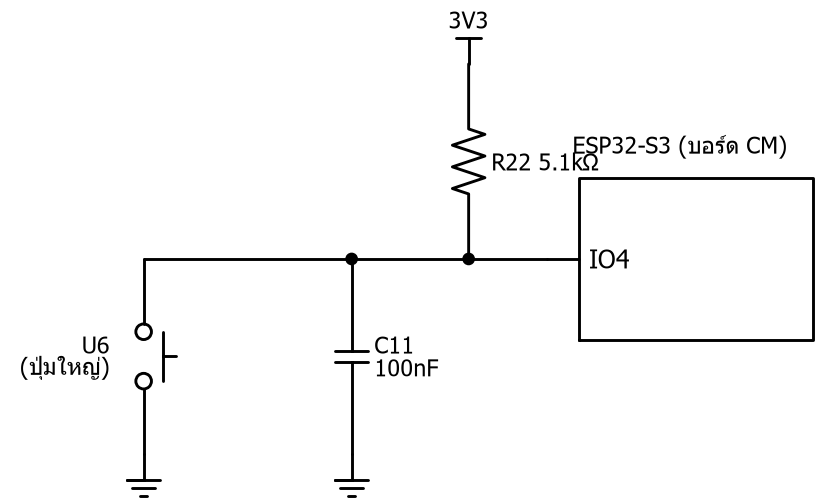
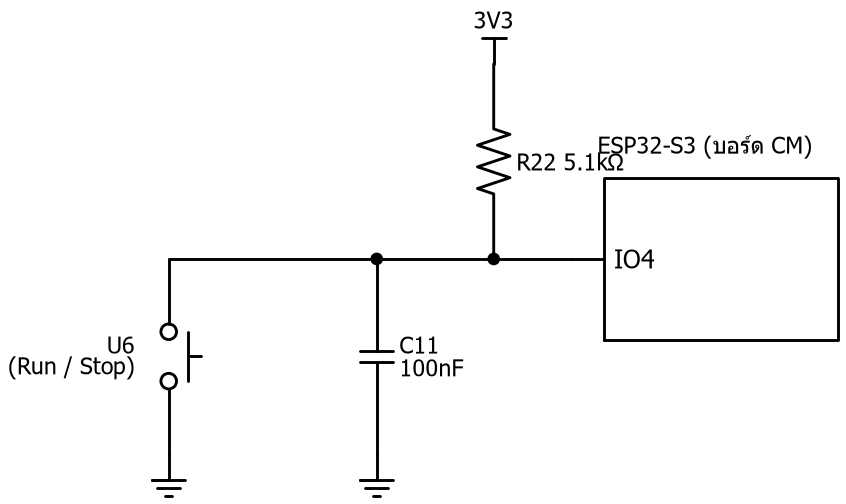
CM sheet: add the board top view; use the silkscreen names (Run / Stop, Boot, SW1, Servos & Relays 1)

Changed region(s): [[0.5481, 0.0, 0.9744, 0.6845], [0.0, 0.506, 0.2436, 1.0], [0.3959, 0.506, 0.5481, 1.0]]

diff --git a/tools/lab1_schematics.py b/tools/lab1_schematics.py
@@ -118,6 +118,6 @@ with schemdraw.Drawing(show=False) as d:   # CM button: R22 5.1k pull-up, C11 10
     d.add(elm.Ground())
     d.pop()
     d.add(elm.Line().left(3.2))
-    d.add(elm.Button().down().label("U6\n(ปุ่มใหญ่)", loc="top", ofst=0.4))
+    d.add(elm.Button().down().label("U6\n(Run / Stop)", loc="top", ofst=0.4))
     d.add(elm.Ground())
     save(d, "lab1-cm-button.png")

diff --git a/1 MCU CM board.md b/1 MCU CM board.md
@@ -19,7 +19,8 @@
 บอร์ด CM ใช้ชิป **ESP32-S3** ซึ่งเป็นคนละรุ่นกับ **ESP32** ในชุด Lab และในโครงงาน Final Project
 จุดประสงค์ของชีทนี้จึงไม่ใช่แค่ทำ Lab ให้ได้ผลเหมือนกัน แต่ให้เห็นว่า **Microcontroller ต่างรุ่นกัน แม้จะชื่อคล้ายกัน ก็มีรายละเอียดที่ต่างกัน** และต้องตรวจสอบทุกครั้งที่เปลี่ยนชิปหรือเปลี่ยนบอร์ด
 
-<!-- ภาพบอร์ด CM: รอภาพถ่ายจากผู้สอน ระบุตำแหน่ง LED2 (แดง), ปุ่มใหญ่ U6, ปุ่ม BOOT U4, สวิตช์ Power SW1 และช่อง USB-C -->
+![บอร์ด GoGo Command Module ด้านบน](images/lab1-cm-topview.png)
+*ตำแหน่งที่ใช้ในชีทนี้: LED2 สีแดง (มุมขวาล่าง) ต่อกับ IO6 · ปุ่ม Run / Stop (ปุ่มใหญ่กลางบอร์ด, U6) ต่อกับ IO4 · ปุ่ม Boot (U4) ข้างช่อง USB-C · สวิตช์ On / Off (SW1) · ช่อง Servos & Relays หมายเลข 1 ต่อกับ IO15*
 
 ## บอร์ด CM ต่างจาก ESP32 ในชุด Lab อย่างไร
 
@@ -41,8 +42,8 @@
 
 | | Wokwi | Breadboard (ESP32) | บอร์ด CM (ESP32-S3) |
 |---|---|---|---|
-| LED | GPIO23 | GPIO23 | **IO6** — LED2 สีแดง ต่อผ่าน R23 1kΩ บนบอร์ด |
-| ปุ่มกด | GPIO4 | GPIO4 | IO4 — ปุ่มใหญ่ U6 บนบอร์ด |
+| LED | GPIO23 | GPIO23 | **IO6** — LED2 สีแดง (มุมขวาล่าง) ต่อผ่าน R23 1kΩ บนบอร์ด |
+| ปุ่มกด | GPIO4 | GPIO4 | IO4 — ปุ่ม Run / Stop (U6) บนบอร์ด |
 | ตัวต้านทาน Pull-up | ต่อเอง (หรือใช้ Internal Pull-up) | ต่อเอง 10kΩ | R22 5.1kΩ บนบอร์ด |
 | วงจร Debounce | จำลองด้วยตัวเลือก Bounce ของปุ่ม | ต่อเองใน LAB 1.3.3 (33kΩ + 100nF) | C11 100nF บนบอร์ด |
 
@@ -57,7 +58,7 @@
 
 ## การเตรียมบอร์ด CM
 
-1. ต่อสาย USB-C จากคอมพิวเตอร์เข้ากับบอร์ด CM แล้วเปิดสวิตช์ Power บนบอร์ด
+1. ต่อสาย USB-C จากคอมพิวเตอร์เข้ากับบอร์ด CM แล้วเลื่อนสวิตช์ SW1 ไปที่ On
 2. เปิด Arduino IDE (ติดตั้งส่วนขยาย ESP32 ตาม[คู่มือการเตรียมอุปกรณ์และโปรแกรม](1%20MCU%20Setup.md) — **ไม่ต้องติดตั้ง Driver CP210x** สำหรับบอร์ดนี้)
 3. ตั้งค่าที่เมนู Tools:
    - Board: **ESP32S3 Dev Module**
@@ -66,10 +67,10 @@
    - PSRAM: **QSPI PSRAM**
    - Port: เลือก Port ของบอร์ด
 4. **ถ้าอัปโหลดโปรแกรมไม่สำเร็จ หรือหา Port ไม่เจอ:** บอร์ด CM ไม่มีปุ่ม Reset ให้เข้าโหมดอัปโหลดเอง โดย
-   - กดปุ่ม BOOT (ปุ่มเล็ก U4) ค้างไว้
-   - ปิดแล้วเปิดสวิตช์ Power
-   - ปล่อยปุ่ม BOOT แล้วกดอัปโหลดอีกครั้ง
-   - เมื่ออัปโหลดเสร็จ ให้ปิดแล้วเปิดสวิตช์ Power เพื่อเริ่มโปรแกรม
+   - กดปุ่ม Boot (ปุ่มเล็ก U4 ข้างช่อง USB-C) ค้างไว้
+   - เลื่อนสวิตช์ SW1 ไปที่ Off แล้วกลับมาที่ On
+   - ปล่อยปุ่ม Boot แล้วกดอัปโหลดอีกครั้ง
+   - เมื่ออัปโหลดเสร็จ ให้เลื่อนสวิตช์ SW1 Off แล้ว On เพื่อเริ่มโปรแกรม
 
 ## LAB 1.1 — Hello World
 
@@ -117,10 +118,10 @@ void loop() {
 - ถ้านำโปรแกรมนี้ (LED = 6) ไปใช้กับบอร์ด ESP32 ในชุด Lab จะเกิดอะไรขึ้น เพราะอะไร (ให้ตอบจากตารางเปรียบเทียบด้านบน ไม่ต้องทดลองจริง)
 - ขา IO6 ของบอร์ด CM ไม่มีจุดต่อออกมาภายนอก ถ้าต้องการวัดสัญญาณด้วย Logic Analyzer จะทำได้อย่างไร
 
-**(ทางเลือก) วัดสัญญาณด้วย Logic Analyzer:** ให้โปรแกรมส่งสัญญาณเดียวกันออกอีกขาหนึ่งที่มีช่องต่อ เช่น IO15 ซึ่งต่อกับช่อง Servo 1 (Grove สีเหลือง) แล้วต่อสายสัญญาณ (สีเหลือง) และ GND (สีดำ) ของช่องนั้นเข้ากับ Logic Analyzer **ห้ามต่อสายสีแดง** ซึ่งเป็นไฟเลี้ยง Servo
+**(ทางเลือก) วัดสัญญาณด้วย Logic Analyzer:** ให้โปรแกรมส่งสัญญาณเดียวกันออกอีกขาหนึ่งที่มีช่องต่อ เช่น IO15 ซึ่งต่อกับช่อง Servos & Relays หมายเลข 1 แล้วต่อสายสัญญาณ (สีเหลือง) และ GND (สีดำ) ของช่องนั้นเข้ากับ Logic Analyzer **ห้ามต่อสายสีแดง** ซึ่งเป็นไฟเลี้ยง Servo
 
 ```cpp
-#define PROBE  15   // ช่อง Servo 1 (Grove สีเหลือง)
+#define PROBE  15   // ช่อง Servos & Relays หมายเลข 1
 // ใน setup():  pinMode(PROBE, OUTPUT);
 // ใน loop() ให้สั่ง digitalWrite(PROBE, ...) คู่กับ digitalWrite(LED, ...) ทุกครั้ง
 ```
@@ -129,7 +130,7 @@ void loop() {
 
 ### 1.3.1 ใช้ปุ่มควบคุม LED แบบกดติด ปล่อยดับ
 
-ปุ่มใหญ่ U6 ต่ออยู่ที่ IO4 พร้อมตัวต้านทาน Pull-up R22 5.1kΩ และตัวเก็บประจุ C11 100nF บนบอร์ด
+ปุ่ม Run / Stop (ปุ่มใหญ่กลางบอร์ด, U6) ต่ออยู่ที่ IO4 พร้อมตัวต้านทาน Pull-up R22 5.1kΩ และตัวเก็บประจุ C11 100nF บนบอร์ด
 
 ![วงจรปุ่มกดบนบอร์ด CM](images/lab1-cm-button.png)
 
